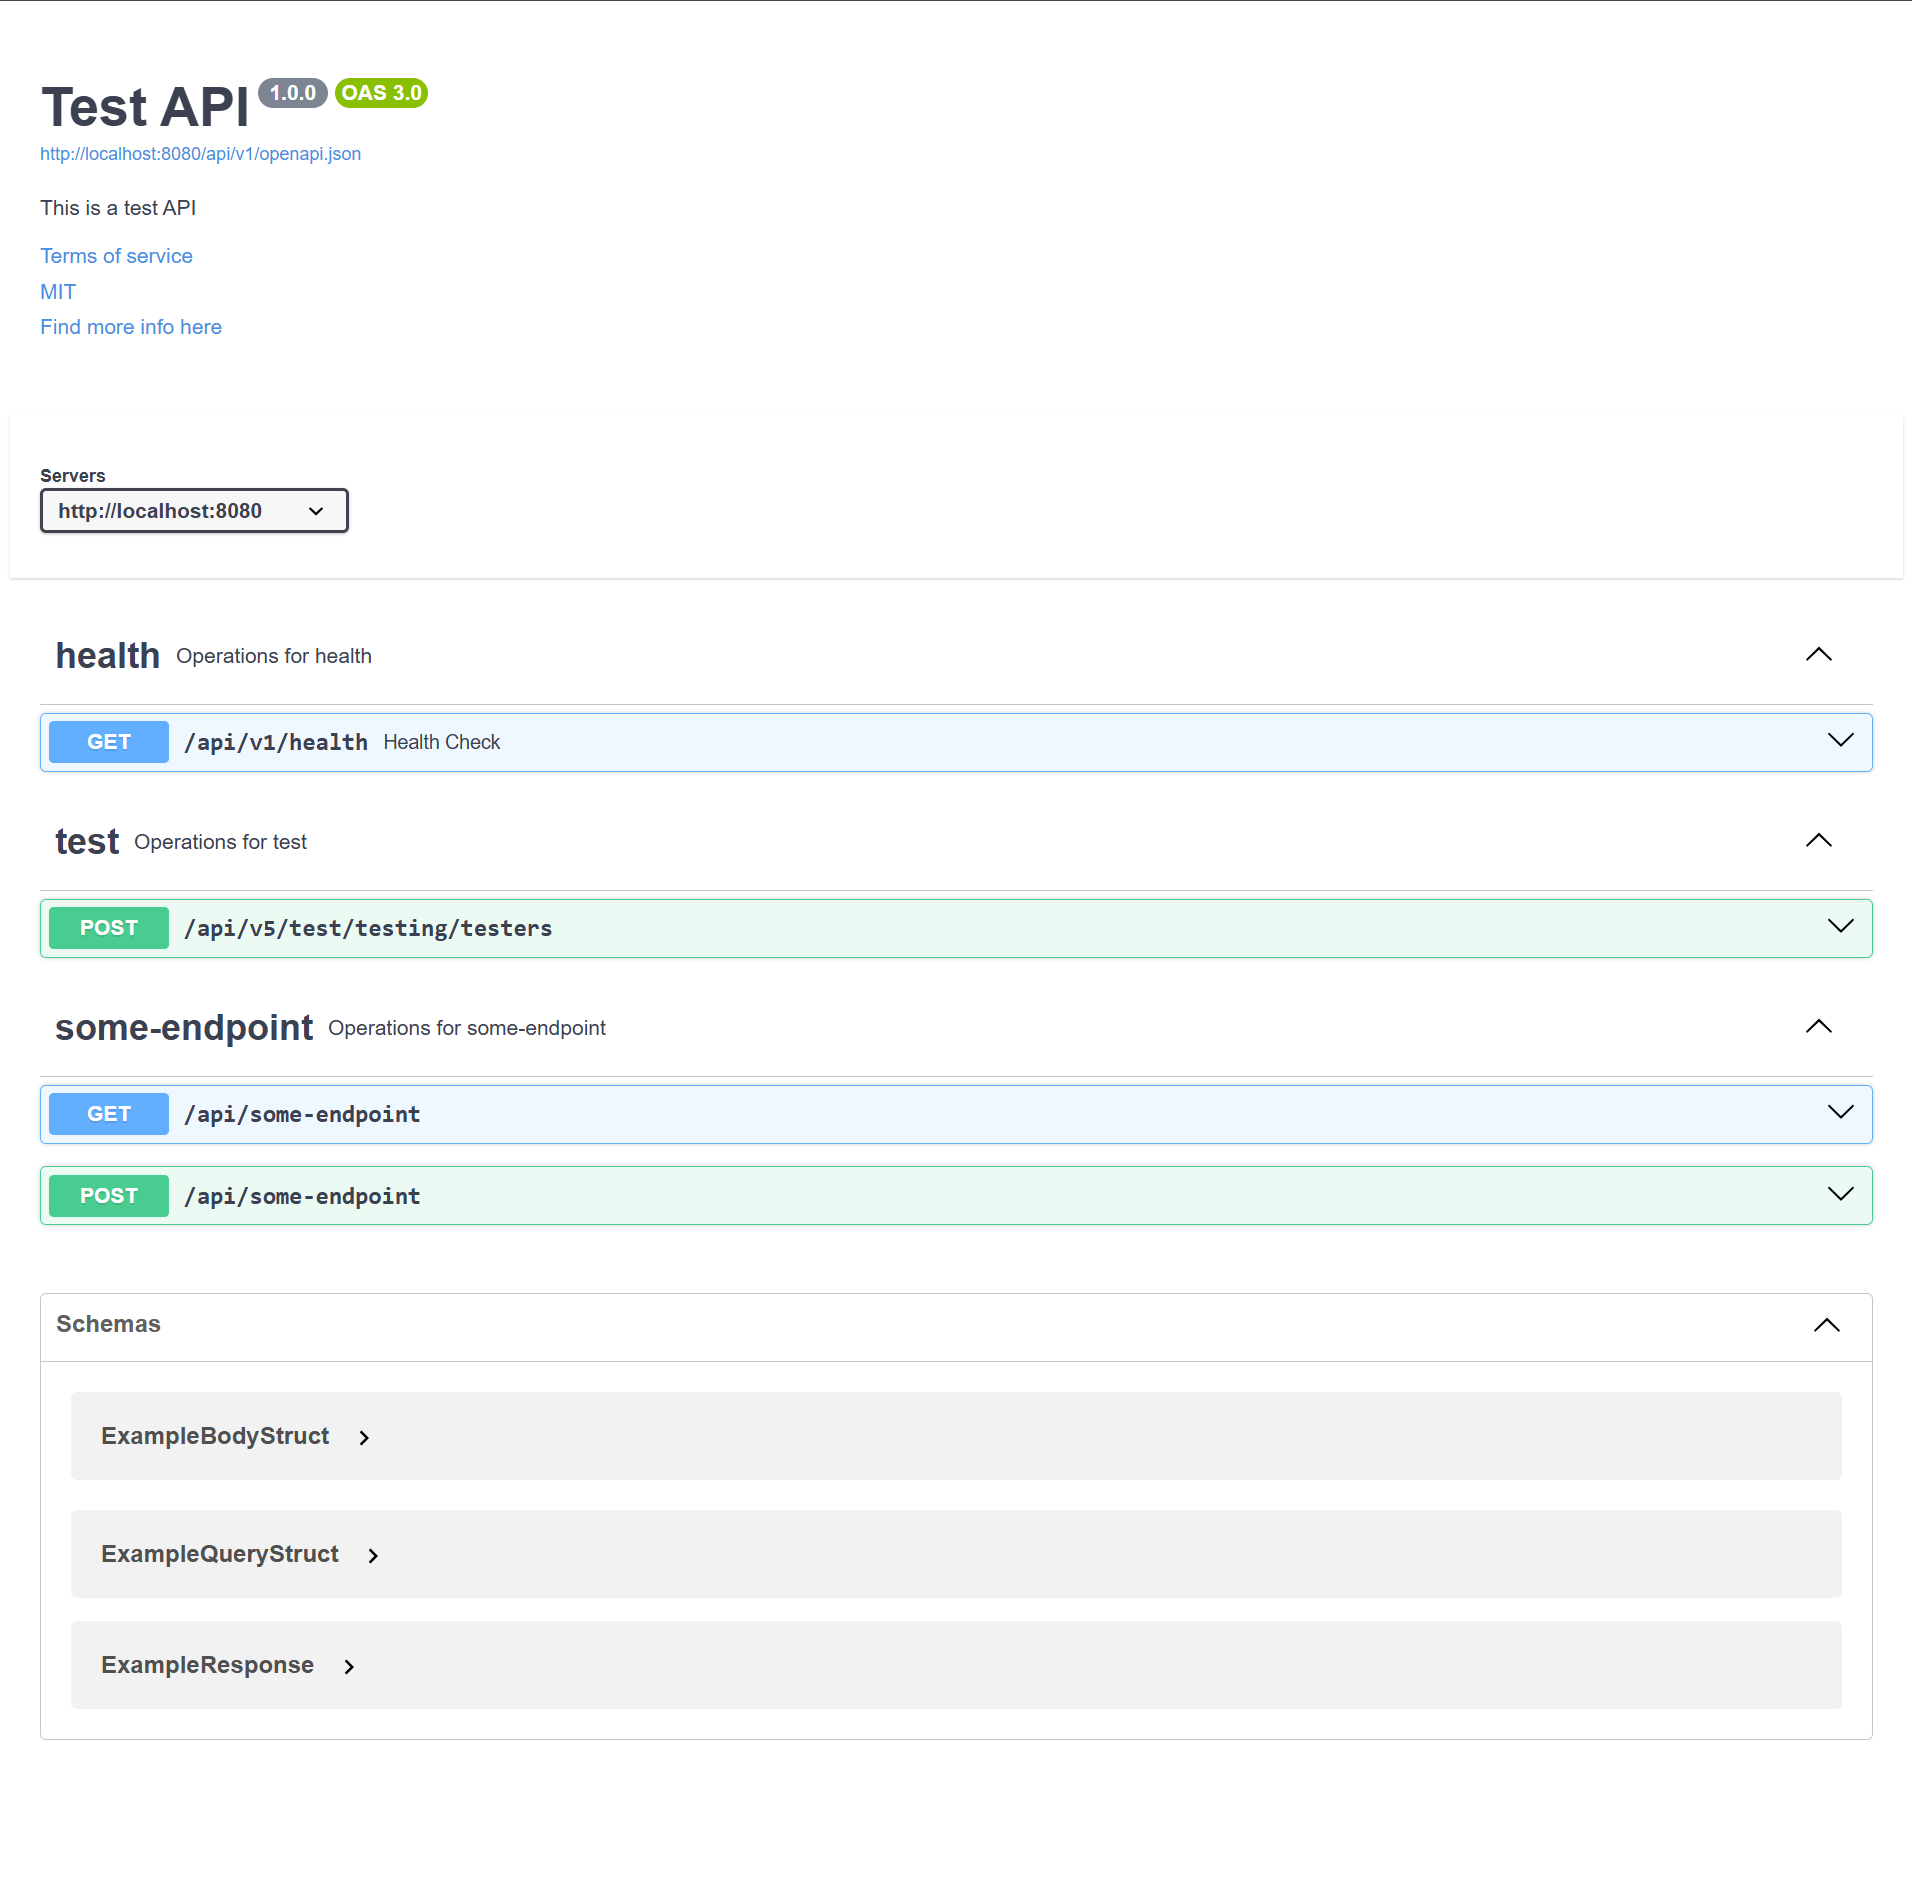
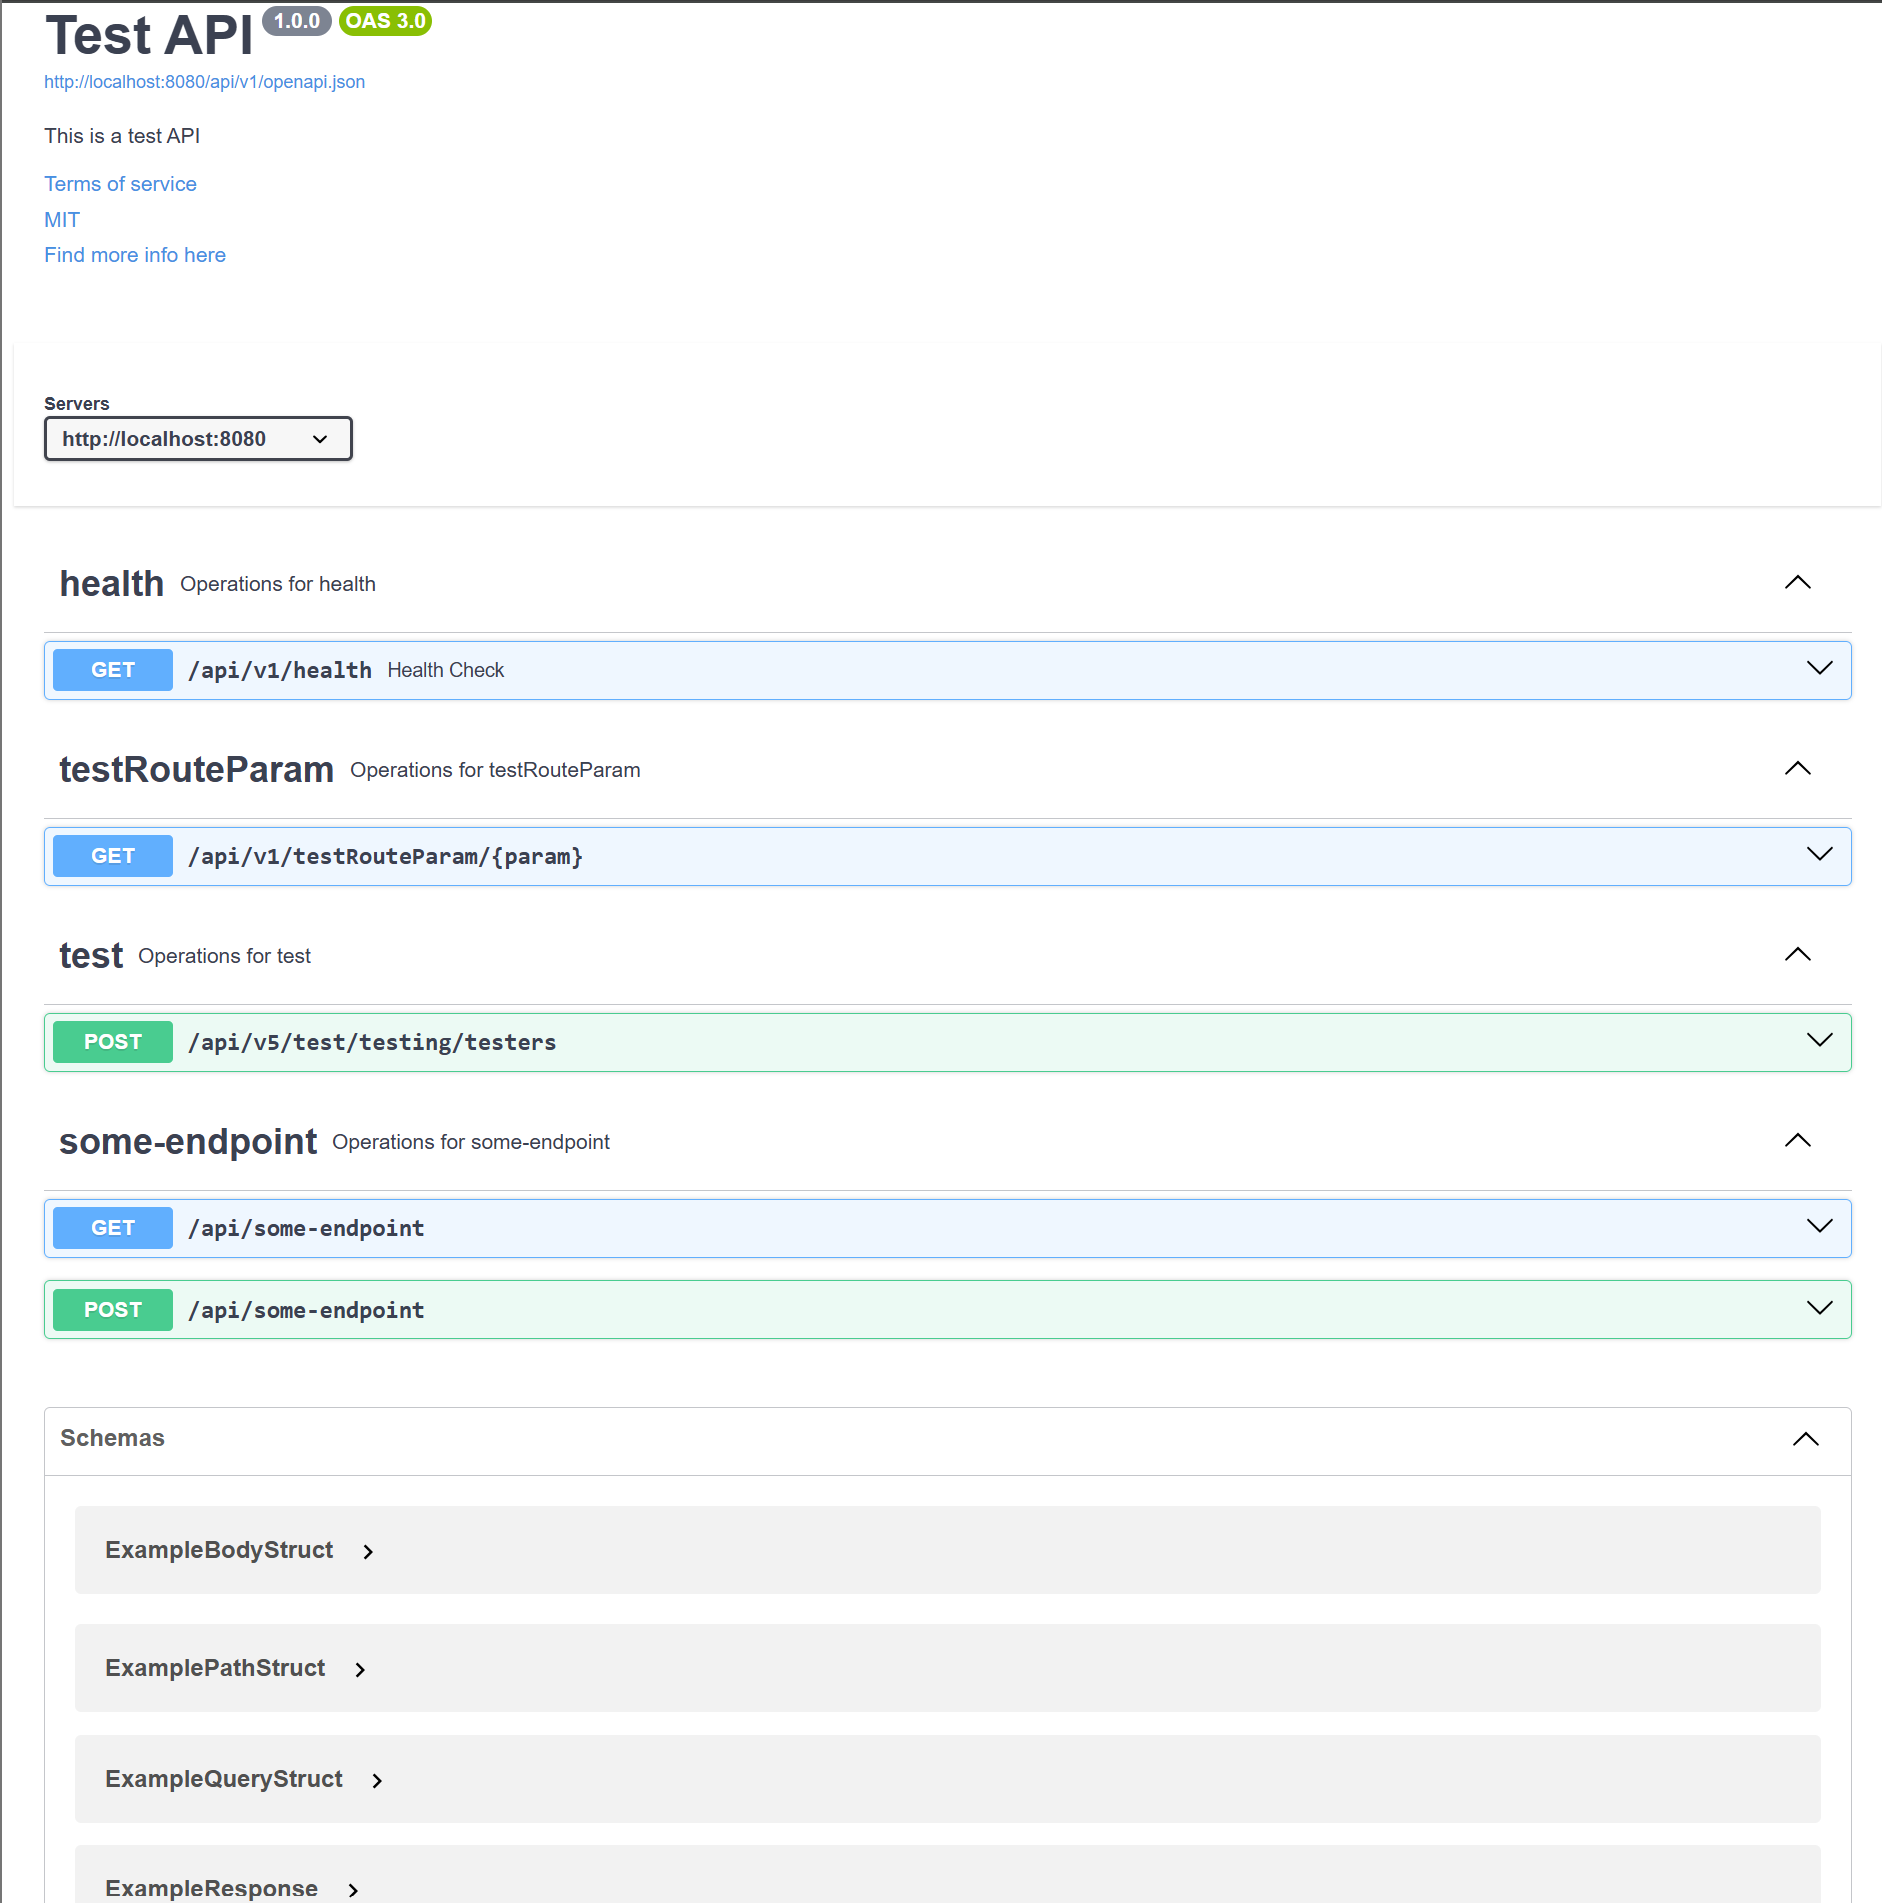
adding route and header parameter functionality.

diff --git a/swaggo/client.go b/swaggo/client.go
@@ -180,13 +180,13 @@ func (c *SwaggoMux) mapDoc() (*SwagDoc, error) {
 
 		for _, rd := range route.RequestDetails {
 
-			queryRequests := ext.Where(rd.Requests, func(rd RequestData) bool {
-				return rd.Type == QuerySource
+			parameterRequests := ext.Where(rd.Requests, func(rd RequestData) bool {
+				return ext.Contains([]RequestDataSource{QuerySource, PathSource, HeaderSource}, rd.Type)
 			})
 
 			parameters := make([]Parameter, 0)
 
-			for _, qr := range queryRequests {
+			for _, qr := range parameterRequests {
 				t, v, err := rawReflect(qr.Data)
 
 				if err != nil {
@@ -207,7 +207,7 @@ func (c *SwaggoMux) mapDoc() (*SwagDoc, error) {
 
 					parameters = append(parameters, Parameter{
 						Name:        fName,
-						In:          "query",
+						In:          string(qr.Type),
 						Description: field.Tag.Get("description"),
 						Required:    field.Tag.Get("required") == "true",
 						Schema:      Schema{Type: parseGOTypeToSwaggerType(value.Kind())},

diff --git a/main.go b/main.go
@@ -22,6 +22,10 @@ type ExampleResponse struct {
 	ExampleIntResponseField int    `json:"example_int_response_field"`
 }
 
+type ExamplePathStruct struct {
+	ExamplePathField string `json:"example_path_field" name:"param" required:"true" description:"Example path field"`
+}
+
 func main() {
 
 	mux := swaggo.NewSwaggoMux(&swaggo.SwaggerInfo{
@@ -41,6 +45,24 @@ func main() {
 		Method:      "GET",
 		Summary:     "Health Check",
 		Description: "Check the health of the API",
+	})
+
+	mux.HandleFunc("/testRouteParam/{param}", health, "v1", swaggo.RequestDetails{
+		Method: "GET",
+		Requests: []swaggo.RequestData{
+			{
+				Type: swaggo.PathSource,
+				Data: ExamplePathStruct{
+					ExamplePathField: "example",
+				},
+			},
+			{
+				Type: swaggo.HeaderSource,
+				Data: ExamplePathStruct{
+					ExamplePathField: "example",
+				},
+			},
+		},
 	})
 
 	mux.HandleFunc("/test/testing/testers", health, "v5", swaggo.RequestDetails{

diff --git a/README.md b/README.md
@@ -8,6 +8,7 @@ For those that hate maintaining swagger docs manually, this is a http handler th
 1. No Dependencies (should entirely use stl packages to function)
 1. Clean and Easy to Understand Setup
 1. Easy Install 
+1. Enforce "structable" data models for intake and outtake.
 
 ## Mux Features
 
@@ -47,7 +48,6 @@ The above code generates and opens the following swagger:
 ## Full Example
 
 ```go
-
 package main
 
 import (
@@ -72,6 +72,10 @@ type ExampleResponse struct {
 	ExampleIntResponseField int    `json:"example_int_response_field"`
 }
 
+type ExamplePathStruct struct {
+	ExamplePathField string `json:"example_path_field" name:"param" required:"true" description:"Example path field"`
+}
+
 func main() {
 
 	mux := swaggo.NewSwaggoMux(&swaggo.SwaggerInfo{
@@ -91,6 +95,24 @@ func main() {
 		Method:      "GET",
 		Summary:     "Health Check",
 		Description: "Check the health of the API",
+	})
+
+	mux.HandleFunc("/testRouteParam/{param}", health, "v1", swaggo.RequestDetails{
+		Method: "GET",
+		Requests: []swaggo.RequestData{
+			{
+				Type: swaggo.PathSource,
+				Data: ExamplePathStruct{
+					ExamplePathField: "example",
+				},
+			},
+			{
+				Type: swaggo.HeaderSource,
+				Data: ExamplePathStruct{
+					ExamplePathField: "example",
+				},
+			},
+		},
 	})
 
 	mux.HandleFunc("/test/testing/testers", health, "v5", swaggo.RequestDetails{
@@ -225,8 +247,20 @@ mux.HandleFunc(
 	})
 ```
 
-## Coming Soon
+## Contributing and What's Coming
 
 The following features are planned and will be coming down the line:
 
-1. Route Parameter support
+1. Squashing some bugs. (please report any issues you find)
+1. More Content Type Support
+
+Feel free to contribute! Prerequisites:
+
+1. Git
+1. Go 1.22.5+
+1. An internet connection. 
+
+- running: `go run .`
+- testing: `go test ./...`
+
+This is still a work in progress! I would recommend testing before production use.
